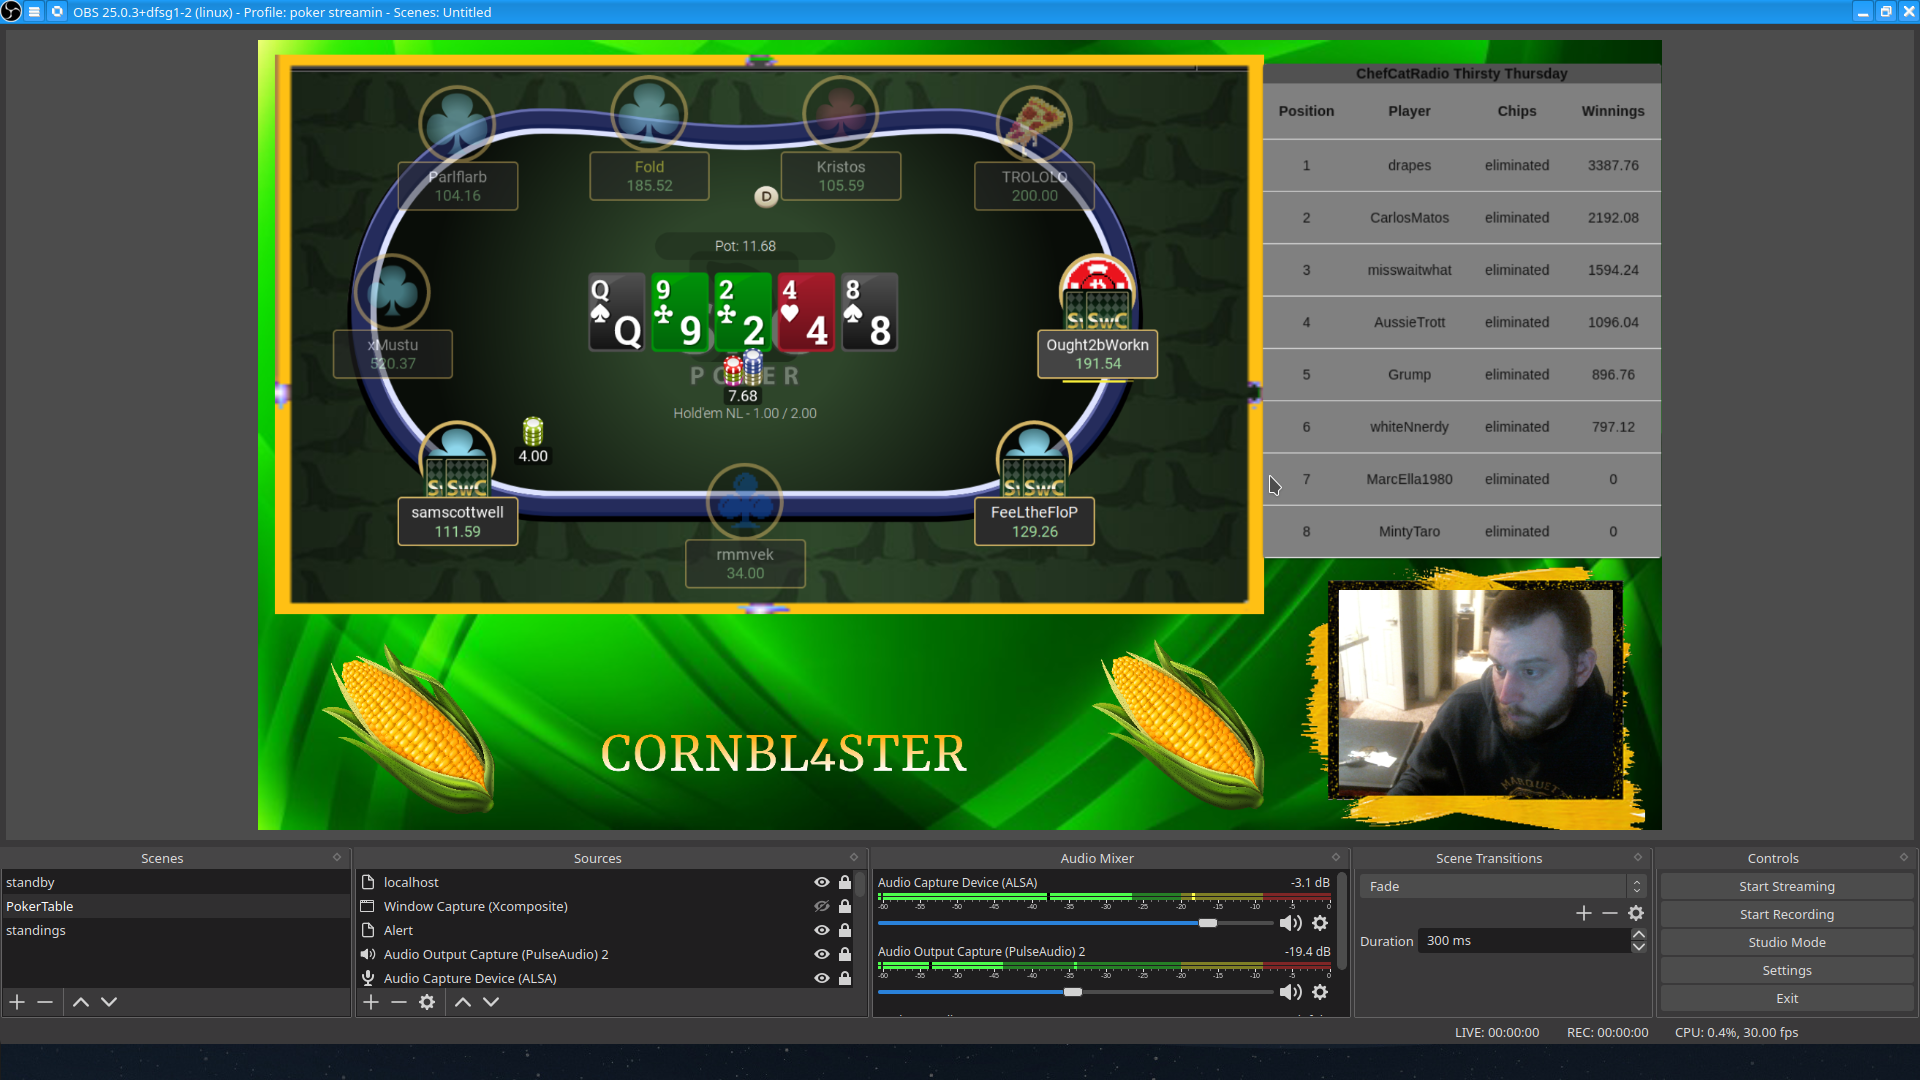
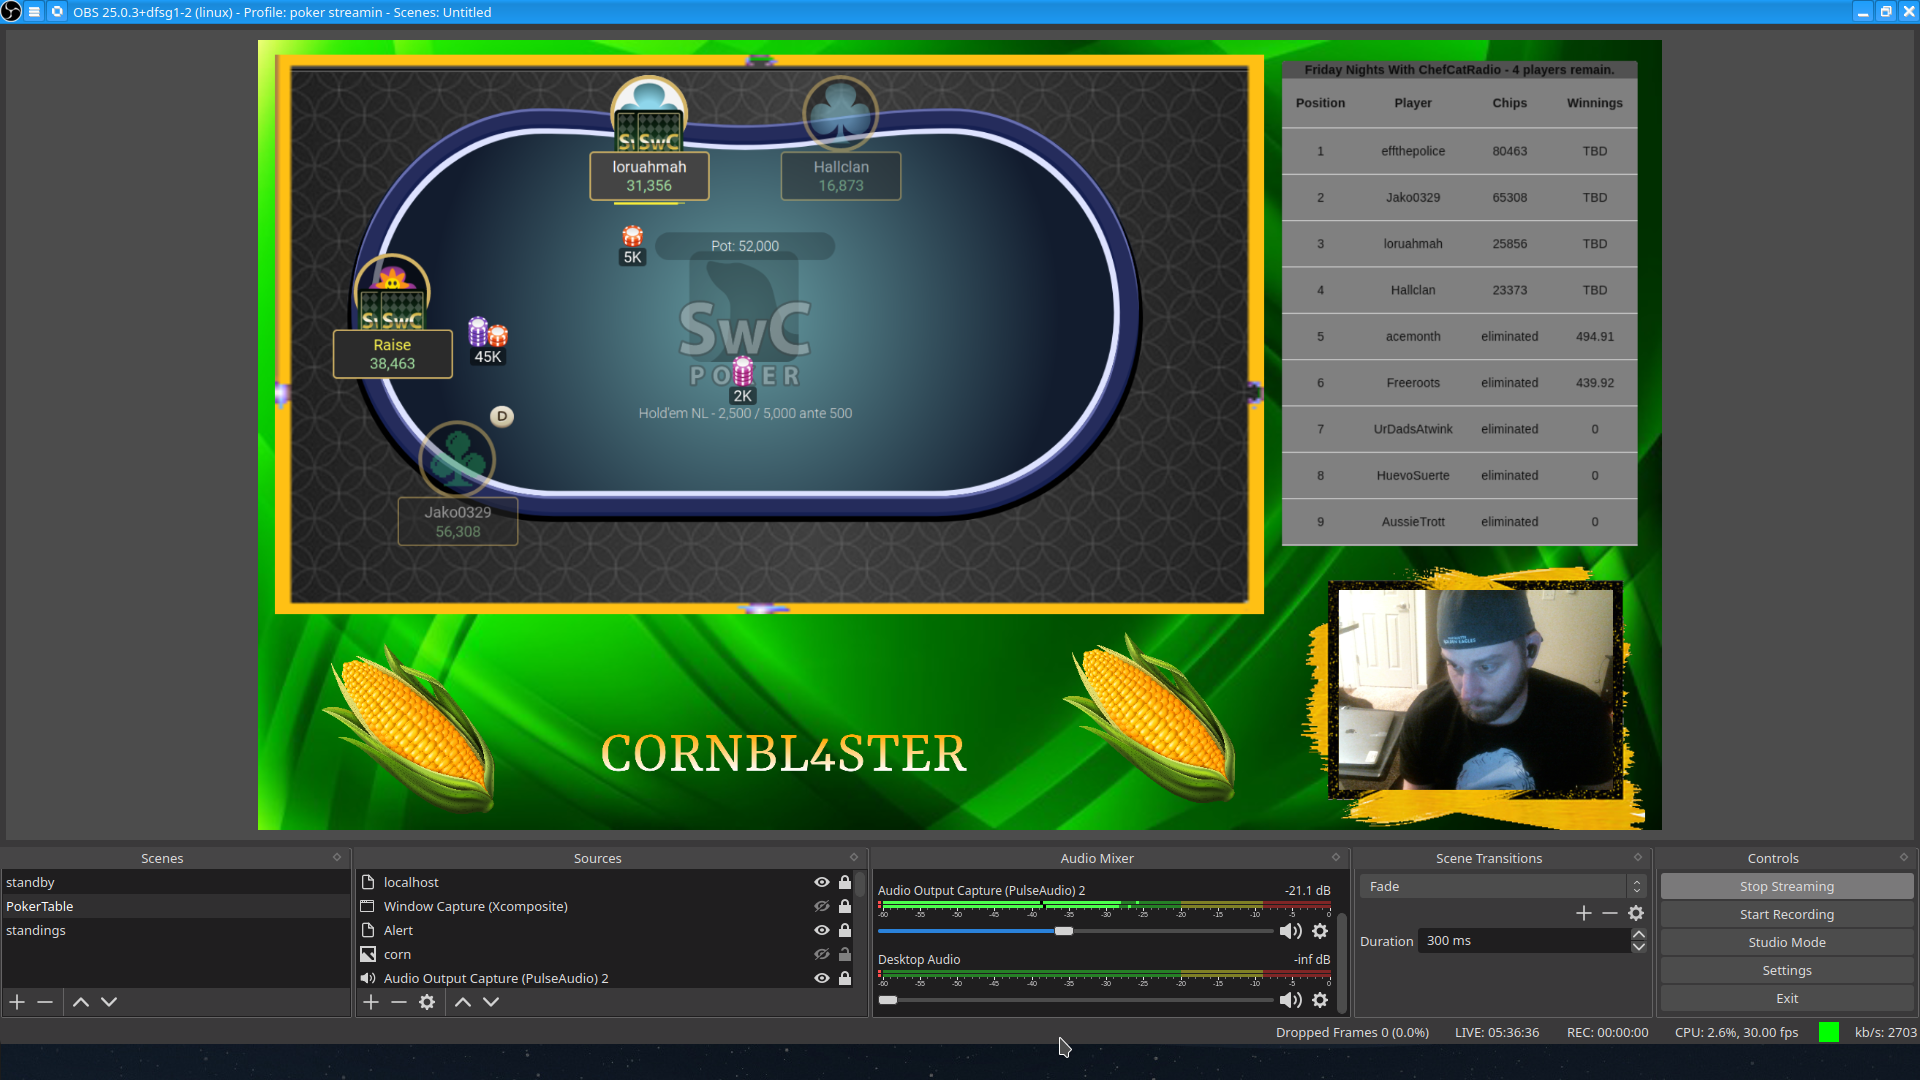
update screenshot

diff --git a/src/components/standings.js b/src/components/standings.js
@@ -68,7 +68,7 @@ function createTable(rows, tname, numPlayers, classes) {
 function getChefCatTournament(tourneyData) {
     console.log(tourneyData)
     try {
-        let re = new RegExp(/tiny\sturbo/,'i')
+        let re = new RegExp(/chefcat/,'i')
         const tournamentNames = Object.keys(tourneyData)
 
         for (let i=0; i<tournamentNames.length; i++) {
@@ -97,7 +97,7 @@ function Standings(props) {
             setInterval(async () => {
 
                 props.getTournamentData()
-            }, 60000)
+            }, 20000)
 
         }
         catch(e) {
@@ -117,7 +117,7 @@ function Standings(props) {
     if(props.tournamentData.isLoading) {
         const blankData = blankRows()
         return (
-          <div>{createTable(blankData, "Loading...", 10, classes)}</div>
+          <div>{createTable([], "Refreshing...", 0, classes)}</div>
         )
     }
     else if (props.tournamentData.isError) {
